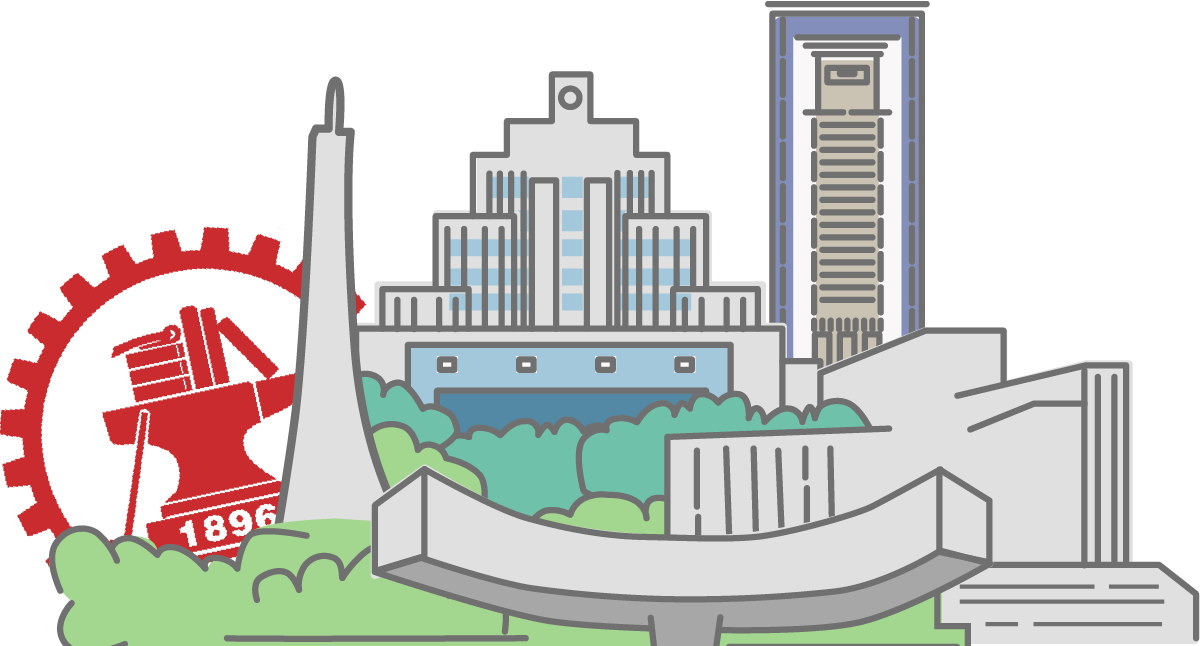
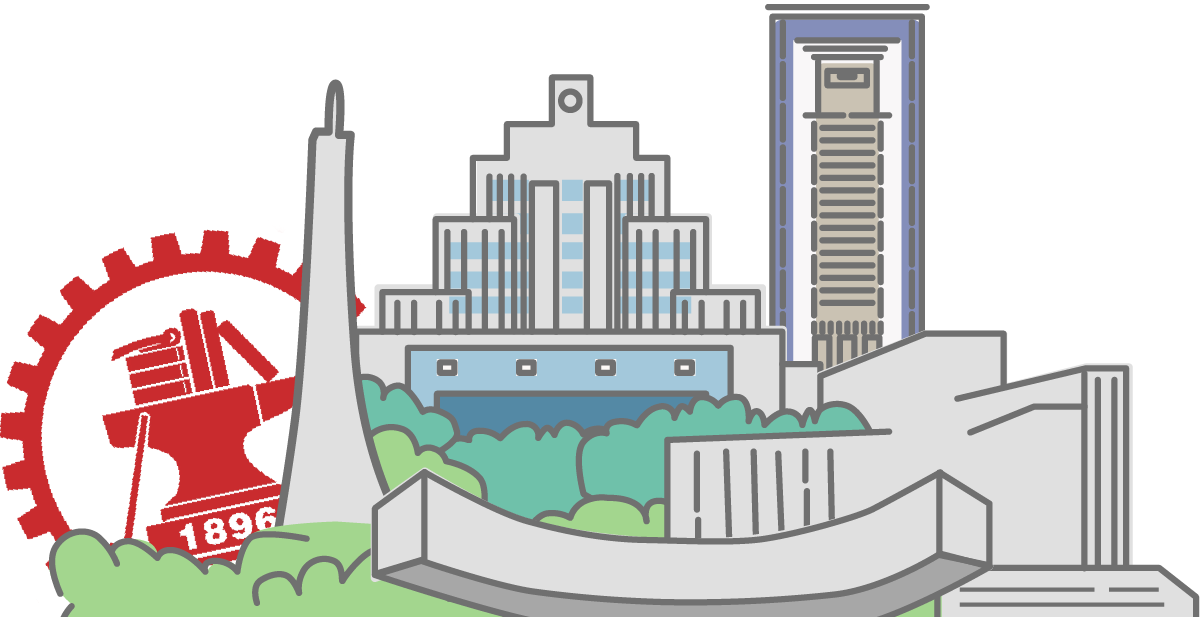
fix:修改背景building

diff --git a/index.html b/index.html
@@ -27,7 +27,7 @@
   </div>
 
   <div class="building fixed w-[100vw] h-auto bottom-[-100rem] flex justify-between items-end z-30 px-[20vw]">
-    <img src="./src/image/building.png" alt="building">
+    <img src="./src/image/building.png" alt="building" class="ml-[1.4vw]">
   </div>
 
   <img src="./src/image/title-bg.png"
